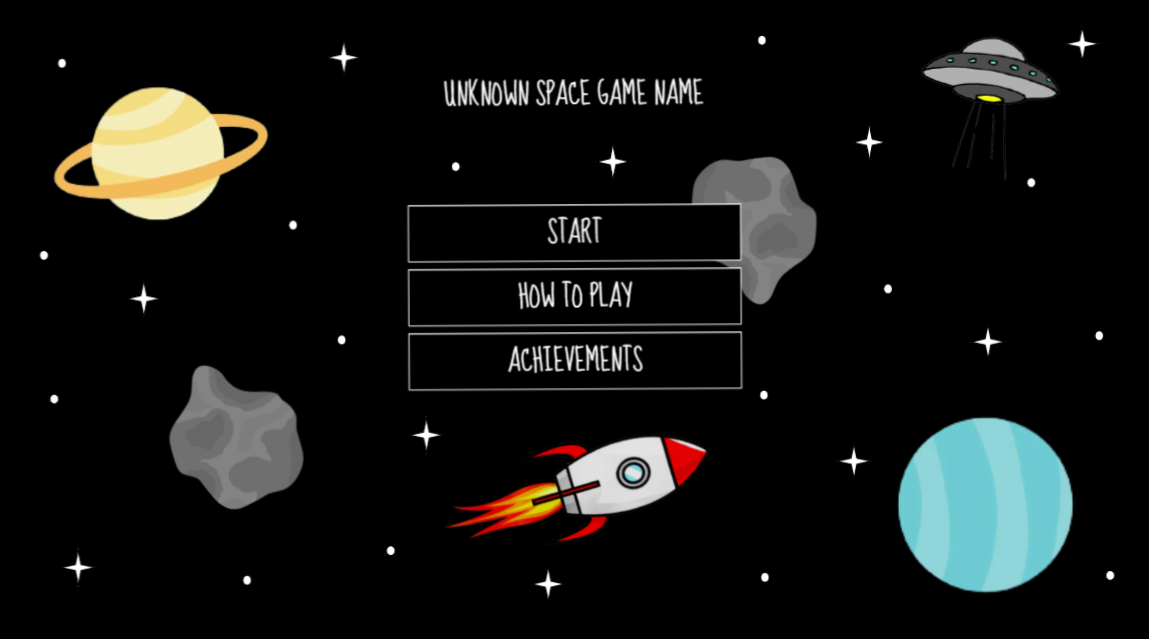
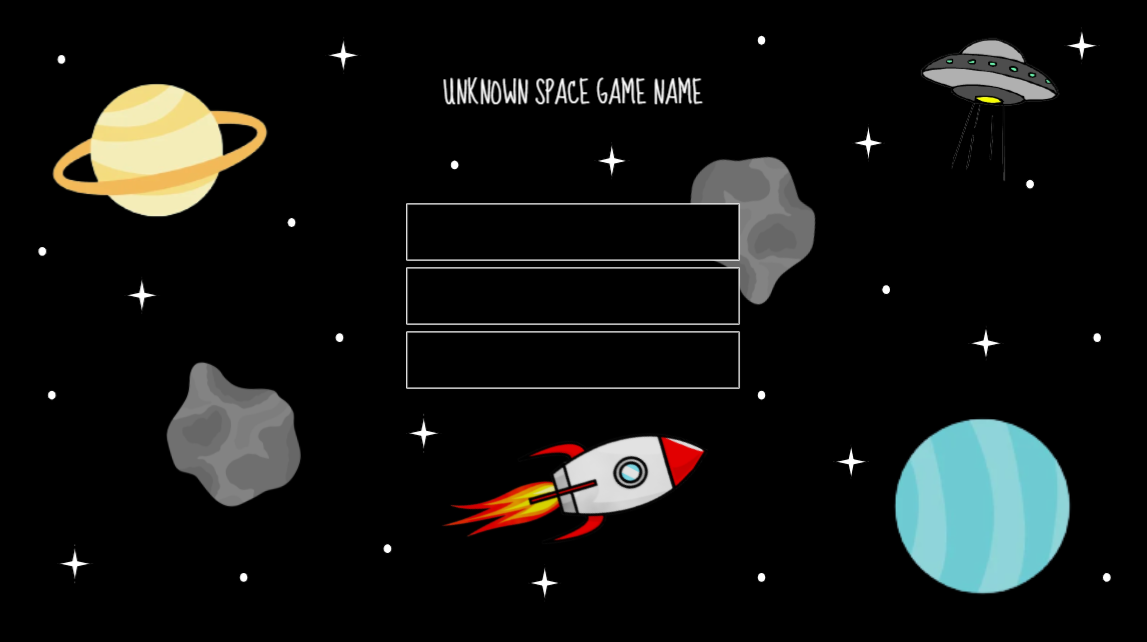
The homepage is finished, I will send to testing.

diff --git a/SpaceGame.html b/SpaceGame.html
@@ -7,42 +7,30 @@
         <title>Document</title>
     </head>
     <style>
-        html {
-            cursor: crosshair;
-        }
-        span {
-            position: relative;
-            background-color: white;
-            z-index: 3;
-        }
         .Options{
             font-family: 'Comic Sans MS';
             position: absolute;
-            background-color: black;
+            background-color: transparent;
             height: 72px;
-            width: 433px;
+            width: 100%;
             z-index: 1;
-            border: 1px solid white;
             text-align: center;
             color: white;
             font-size: 50px;
             vertical-align: middle;
         }
     </style>
-    <body style="background-color: black;">
-        <div style="margin-left: 450px; margin-top: 299px;" class="Options" id="HTP">How To Play</div>
-        <div style="margin-left: 535px; margin-top: 270px;" id="Play" class="Options">Play</div>
-        <div style="position: relative; z-index: 0;"><img src="2021-06-02.png" style="width: 100%; height: 100%; position: relative; z-index: 0;"><div><span style="z-index: 1;"></span></div></div>
+    <body style="background-color: black; overflow: hidden;">
+        <div style="width: 100%; background-color: transparent; margin-top: 17.5%;" id="Play" class="Options">Play</div>
+        <div style="width: 100%; background-color: transparent; margin-top: 23%;" id="HTP" class="Options">How To Play</div>
+        <div style="margin-top: 28.5%;" id="Achievements" class="Options">Achievements</div>
+        <div style="position: relative; z-index: 0;"><img src="2021-06-02.png" style="width: 100%; height: 100%; position: relative; z-index: 0;"></div>
         
     </body>
     <script src="https://ajax.googleapis.com/ajax/libs/jquery/3.5.1/jquery.min.js"></script>
     <script>
-        $(document).ready(function(){
-        $(document).mousemove(function(event){ 
-            var x = event.pageX;
-            var y = event.pageY;
-            $("span").text(x + ", " + y); 
-        });
+        $(window).resize(function () {
+            var a = $('.Options').css('font-size', window.innerWidth / 30);
         });
     </script>
 </html>
